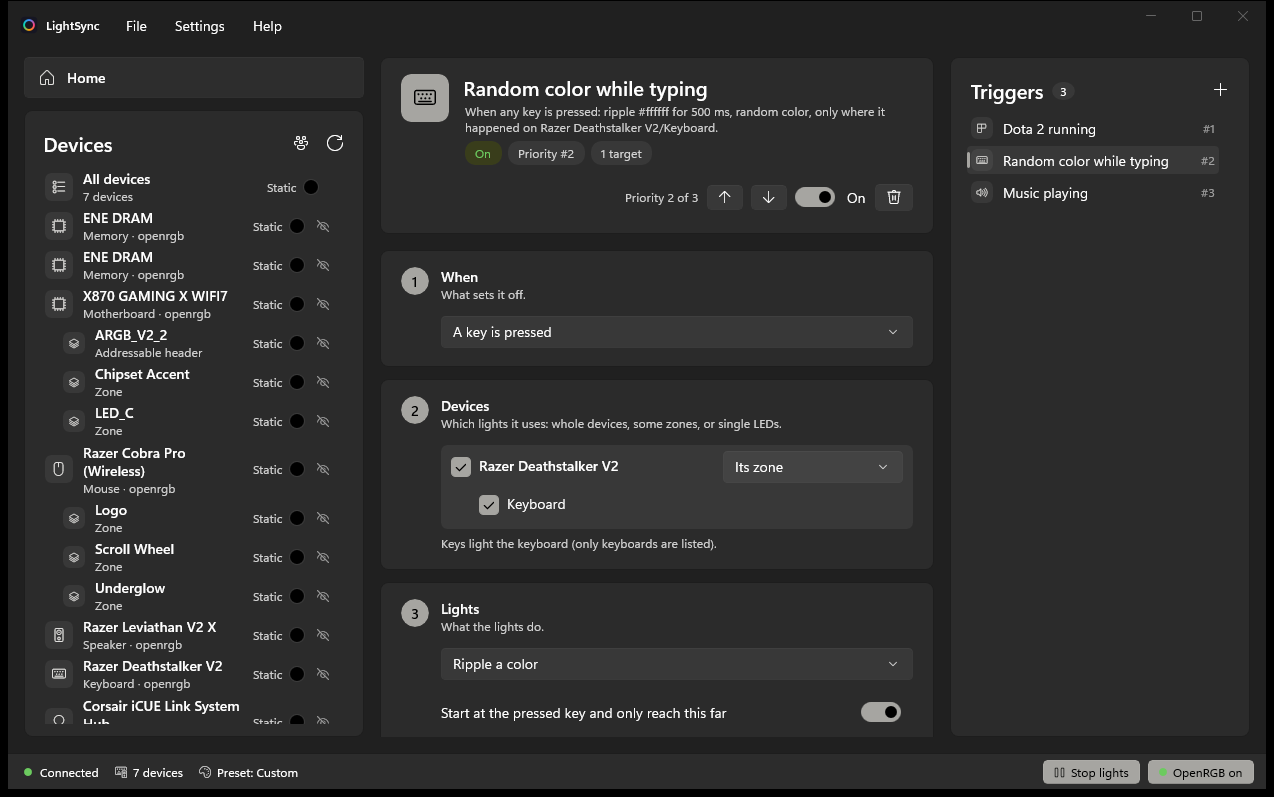
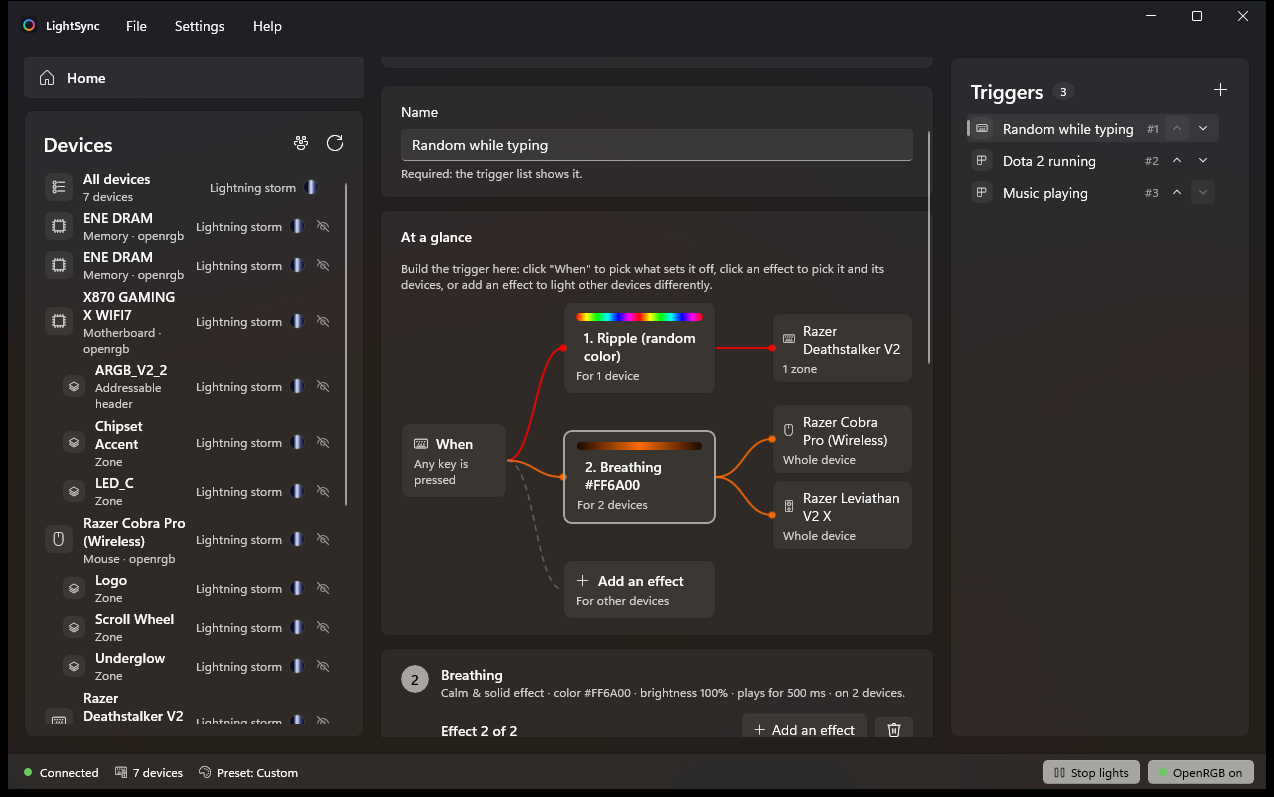
docs: describe the trigger builder

diff --git a/README.md b/README.md
@@ -17,10 +17,11 @@ else; it has only been tested on that one PC.
 | All devices in one list | Devices, zones and fans together; hide what you don't use; split fan headers into single fans; groups |
 | 3D preview | A live 3D model of the case and desk in the current colors; drag parts to where they really are |
 | 28 effects | Calm, motion, colorful and alert effects, and Beat, Bass and Spectrum for sound, each with color, brightness and speed |
-| Music sync | Lights per device, zone or LED; follows what Windows is playing (spectrum, bass, treble, beat, tempo, mood), even at a low volume; kicks, claps and hi-hats hit even in loud electronic music |
+| Music sync | Lights per device (the device acts as one LED) or per LED; follows what Windows is playing (spectrum, bass, treble, beat, tempo, mood), even at a low volume; kicks, claps and hi-hats hit even in loud electronic music |
 | What's playing | A live spectrum of what it hears, and which app is playing it: the song, and for a browser the site (YouTube, YouTube Music, Spotify...) |
 | Sound colors | One color, random (a set number of colors or a random number on every beat), cold to hot, low to high, rainbow, fire or neon |
-| Triggers | A key press, a mouse click, the beat, one or more apps running or web sites open in a browser (like youtube.com, any of them) can light whole devices, some zones or single keys and LEDs, with priorities |
+| Triggers | A key press, a mouse click or movement, or one or more apps running or web sites open in a browser (like youtube.com, any of them) can play any mix of effects: a flash, pulse, ripple or glow, any of the 28 effects, or a preset, each on its own devices (whole devices or single keys and LEDs) or on all the others; priorities set from the list |
+| Trigger builder | Each trigger is built on a map: what sets it off, its effects and the devices each one lights; click a box to change it. A device can have its own sound settings ("lights per", colors), else it uses the effect's |
 | Presets | Save and load your lighting setups |
 | Power | Lights off on sleep, lock or when idle; start with Windows; lives in the tray |
 | OpenRGB management | Starts, stops and updates OpenRGB for you, listening on this PC only |
@@ -71,6 +72,11 @@ for a browser, the name of the tab that plays, only while a sound view is open a
 sent. A trigger that watches a web site reads the host of the page each window of that browser shows
 (nothing else of the address), and only tells the service whether the watched site is open. The only
 online request is the check for new OpenRGB versions.
+
+## Contributing
+
+Issues and small pull requests are welcome: see [CONTRIBUTING.md](CONTRIBUTING.md), including the
+privacy rules every change keeps, and the [code of conduct](CODE_OF_CONDUCT.md).
 
 ## License
 
